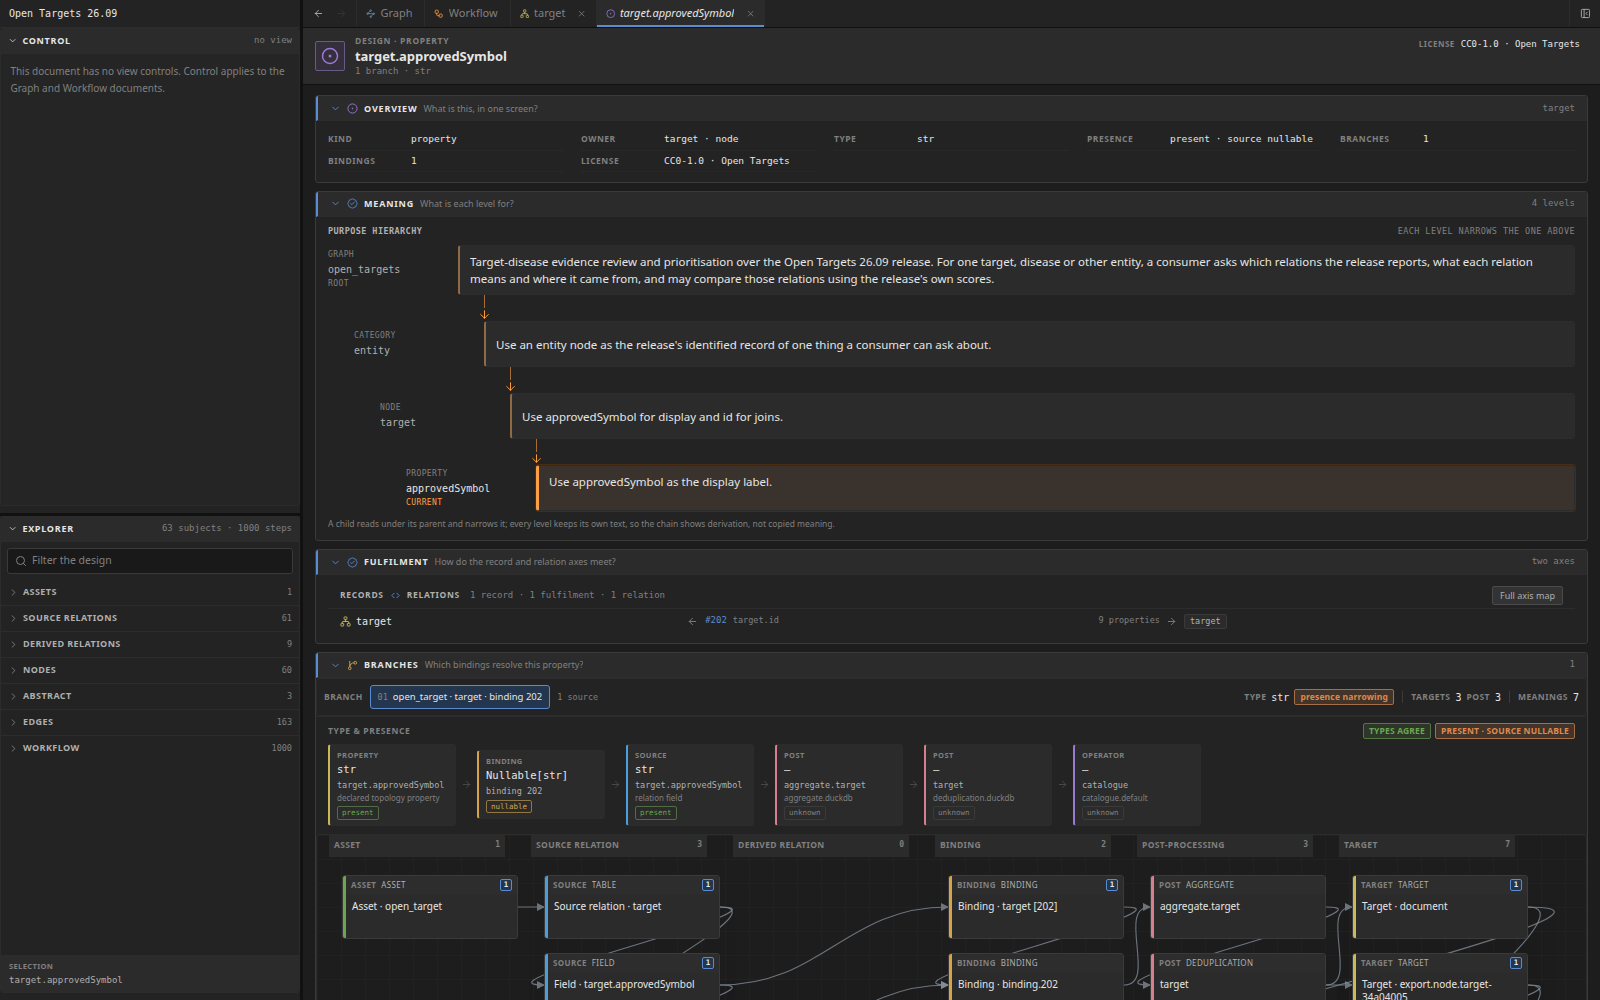
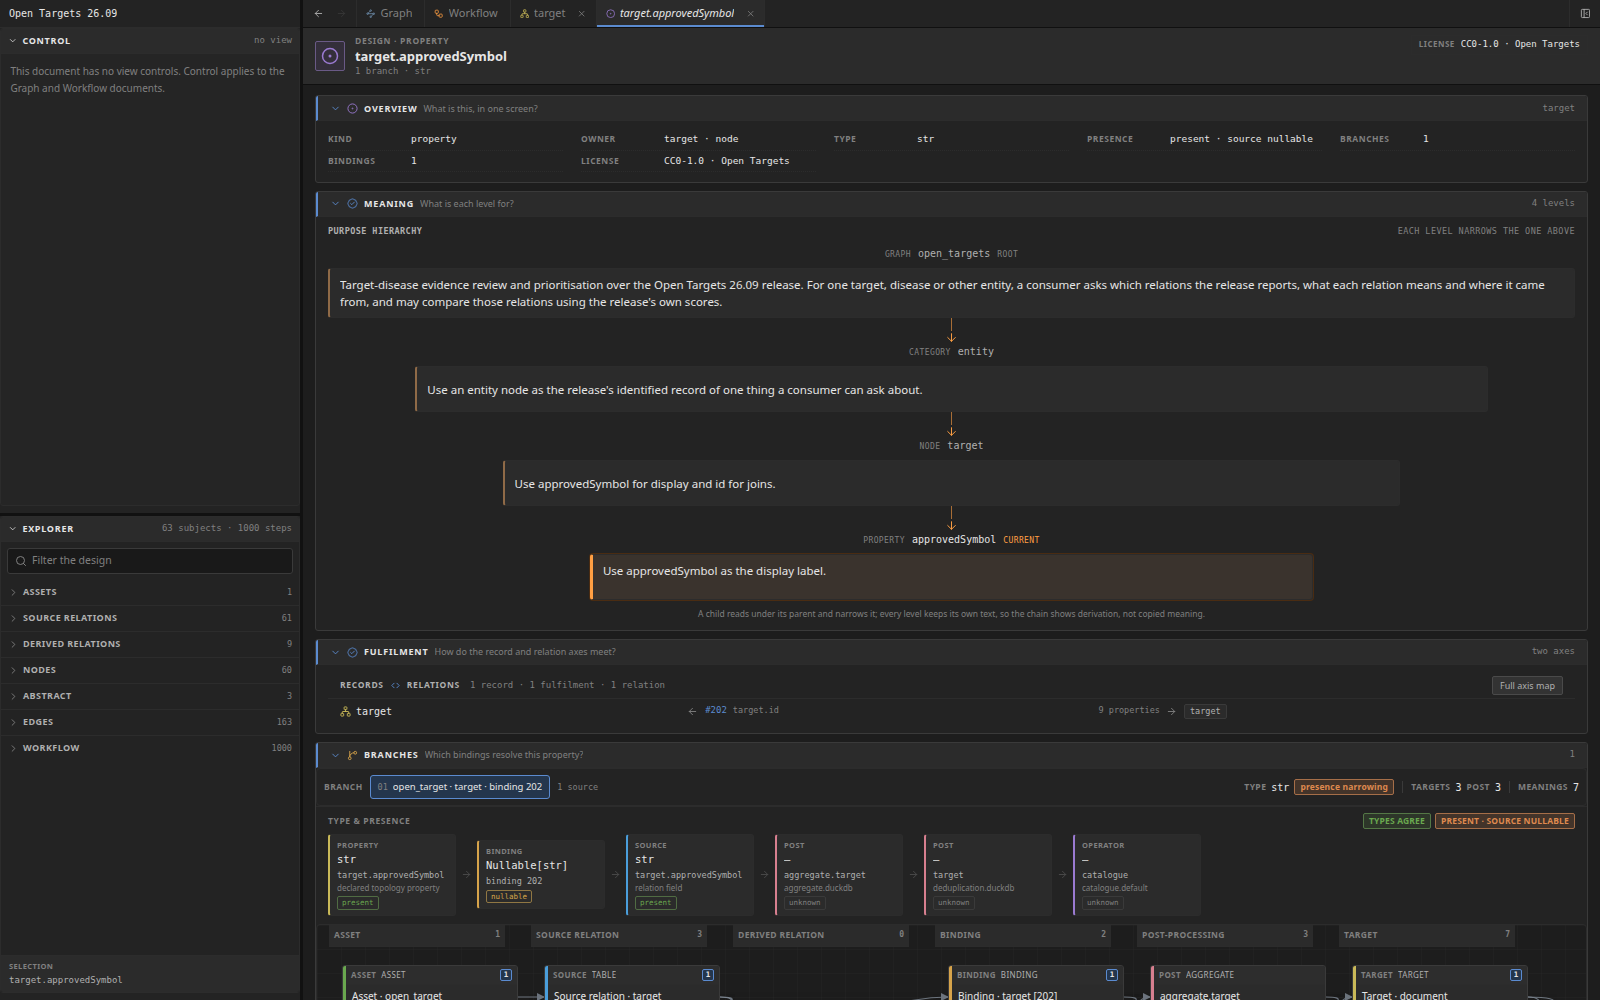
Taper the purpose chain into a centred pyramid

diff --git a/viewer/shared/design/design.module.css b/viewer/shared/design/design.module.css
@@ -174,7 +174,7 @@
   align-items: baseline;
   justify-content: space-between;
   gap: 8px;
-  margin-bottom: 7px;
+  margin-bottom: 8px;
   color: var(--color-faint);
   font-family: var(--font-mono);
   font-size: 8.5px;
@@ -191,26 +191,29 @@
   display: flex;
   min-width: 0;
   flex-direction: column;
+  align-items: center;
 }
 
 .purposeLevel {
+  display: flex;
+  width: 100%;
   min-width: 0;
+  flex-direction: column;
+  align-items: center;
 }
 
-.purposeRow {
-  display: grid;
-  grid-template-columns: 118px minmax(0, 1fr);
-  align-items: stretch;
-  gap: 12px;
+.purposeNode {
   min-width: 0;
 }
 
 .purposeMeta {
   display: flex;
   min-width: 0;
-  flex-direction: column;
+  align-items: baseline;
   justify-content: center;
-  gap: 1px;
+  gap: 7px;
+  min-height: 18px;
+  margin-bottom: 4px;
 }
 
 .purposeKind {
@@ -223,6 +226,7 @@
 
 .purposeName {
   overflow: hidden;
+  max-width: 45%;
   color: var(--color-muted);
   font-family: var(--font-mono);
   font-size: 10px;
@@ -240,6 +244,10 @@
 
 .purposeTag[data-current] {
   color: var(--color-selection);
+}
+
+.purposeMeta[data-current] .purposeName {
+  color: var(--color-text);
 }
 
 .purposeBox {
@@ -276,7 +284,8 @@ button.purposeBox:focus-visible {
   outline-offset: 1px;
 }
 
-.purposeRow[data-current] .purposeBox {
+.purposeMeta[data-current] + .purposeBox,
+.purposeMeta[data-current] ~ .purposeBox {
   border-left-width: 3px;
   border-left-color: var(--color-selection);
   background: color-mix(
@@ -285,10 +294,6 @@ button.purposeBox:focus-visible {
     var(--color-panel-raised)
   );
   box-shadow: 0 0 0 1px var(--color-selection-soft);
-}
-
-.purposeRow[data-current] .purposeName {
-  color: var(--color-text);
 }
 
 .purposeText {
@@ -309,7 +314,6 @@ button.purposeBox:focus-visible {
 
 .purposeConnector {
   display: flex;
-  width: 14px;
   height: 26px;
   flex-direction: column;
   align-items: center;
@@ -324,10 +328,11 @@ button.purposeBox:focus-visible {
 }
 
 .purposeNote {
-  margin: 7px 0 0 0;
+  margin: 8px 0 0;
   color: var(--color-faint);
   font-size: 8.5px;
   line-height: 1.4;
+  text-align: center;
 }
 
 .purposeEmpty {

diff --git a/viewer/shared/design/PurposeChain.tsx b/viewer/shared/design/PurposeChain.tsx
@@ -12,7 +12,8 @@ export interface PurposeChainProps {
   emptyText?: string;
 }
 
-const INDENT = 26;
+/** The root is the broad premise; each narrower purpose steps in. */
+const WIDTH_STEP = 14;
 
 /**
  * The record-axis purpose chain, drawn as a descent.
@@ -43,28 +44,26 @@ export function PurposeChain({
           const interactive =
             !current && level.kind !== "graph" && Boolean(onOpen);
           const text = level.purpose ?? "No purpose is stated.";
-          const depth = index * INDENT;
+          const width = 100 - index * WIDTH_STEP;
           return (
             <div
               className={styles.purposeLevel}
               key={`${level.kind}:${level.name}`}
             >
               {index > 0 ? (
-                <div
-                  className={styles.purposeConnector}
-                  style={{ marginLeft: `${depth + 130 - 7}px` }}
-                  aria-hidden
-                >
+                <div className={styles.purposeConnector} aria-hidden>
                   <span className={styles.purposeConnectorLine} />
                   <ArrowDown size={13} strokeWidth={1.8} />
                 </div>
               ) : null}
               <div
-                className={styles.purposeRow}
-                data-current={current || undefined}
-                style={{ paddingLeft: `${depth}px` }}
+                className={styles.purposeNode}
+                style={{ width: `${width}%` }}
               >
-                <div className={styles.purposeMeta}>
+                <div
+                  className={styles.purposeMeta}
+                  data-current={current || undefined}
+                >
                   <span className={styles.purposeKind}>{level.label}</span>
                   <span className={styles.purposeName}>{level.name}</span>
                   {current ? (

diff --git a/viewer/HIERARCHY.md b/viewer/HIERARCHY.md
@@ -57,7 +57,7 @@ position.
 | **Step** | one workflow step's instruction, payload, openings, connections and blueprint bindings on the same detail surface as node and subject documents; opened from the workflow section of Explorer |
 | **Source relation** | a source relation's identity, contract, owning asset, columns, indented expression outline from the relation back through its fields to the asset, and its purpose in the shared Meaning band; the effective licence is in the banner |
 | **Derived relation** | a derived relation's identity, contract, columns, row source, indented expression outline from each column back through its operators and row source to the asset, and its purpose in the shared Meaning band; the effective licence is in the banner |
-| **Subject** (node, edge, property, asset, abstract) | provenance assets, source relations and derived relations first for node, edge and property; asset and relation references are navigable to their own documents; the effective licence is in the banner; a pannable, zoomable narrowed workflow graph and an indented expression outline of the actual field and operator chain from the current item back to its provenance assets follows, then the indented purpose chain (root → current, each level narrowing the one above), properties and, for a property, provenance lanes and type/presence |
+| **Subject** (node, edge, property, asset, abstract) | provenance assets, source relations and derived relations first for node, edge and property; asset and relation references are navigable to their own documents; the effective licence is in the banner; a pannable, zoomable narrowed workflow graph and an indented expression outline of the actual field and operator chain from the current item back to its provenance assets follows, then the centred-taper purpose chain (root → current, each level narrowing the one above), properties and, for a property, provenance lanes and type/presence |
 
 A node or property click in the canvas only changes transient inspection.
 Single-clicking an Explorer row opens or reuses one preview tab; double-clicking

diff --git a/viewer/DETAIL_CONTENT.md b/viewer/DETAIL_CONTENT.md
@@ -16,7 +16,7 @@ includes by their immediate importance to a reader; it never renames one. A
 | Order | Section | Question it answers | Content |
 | --- | --- | --- | --- |
 | 1 | **Overview** | What is this, in one screen? | One fact grid: kind, labels, identity, owner or endpoints, counts and licence. |
-| 2 | **Meaning** | What is each level for? | One confined purpose box per level: graph → category → component → property, indented and joined by an accent spine. Each box shows only the purpose, clamped to three lines; a longer purpose hides its remainder. The current level is tinted and marked; the scheme is derivation (a level narrows the one above), not copied text. No claims or limitations appear in this band. |
+| 2 | **Meaning** | What is each level for? | One confined purpose box per level: graph → category → component → property, a centred taper from the widest root to the narrowest current box, joined by a central accent spine. Each box shows only the purpose, clamped to three lines; a longer purpose hides its remainder. The current level is tinted and marked; the scheme is derivation (a level narrows the one above), not copied text. No claims or limitations appear in this band. |
 | 3 | **Fulfilment** | How do the record and relation axes meet? | The axis map: graph records, the binding, the domain relations. Compact by default; one control reveals the full three-column map. |
 | 4 | **Sources** | Where does this value come from? | Assets, source relations and derived relations, as navigable references with counts. |
 | 5 | **Build steps** | How is this built? | The narrowed workflow graph of the steps that produce the subject. |

diff --git a/viewer/DESIGN_LANGUAGE.md b/viewer/DESIGN_LANGUAGE.md
@@ -81,9 +81,9 @@ A kind includes or omits a section; it never renames one for itself.
 - **Overview** is one fact grid: kind, labels, identity, owner or endpoints,
   counts and licence.
 - **Meaning** is a compact purpose chain. On the record axis it reads the
-  graph purpose downward through category and component to property: one box
-  per level, stepped in by 26px and joined by an accent spine, each showing only
-  its purpose. The root is marked, the current level is tinted and accented,
+  graph purpose downward through category and component to property: a centred
+  taper, each level 14% narrower than its parent and joined by an accent spine,
+  each box showing only its purpose. The root is marked, the current level is tinted and accented,
   and the box is constrained so a long purpose clamps and the rest stays hidden.
   The scheme is derivation, not copied text: a level narrows the one above. The
   label is always Meaning.
